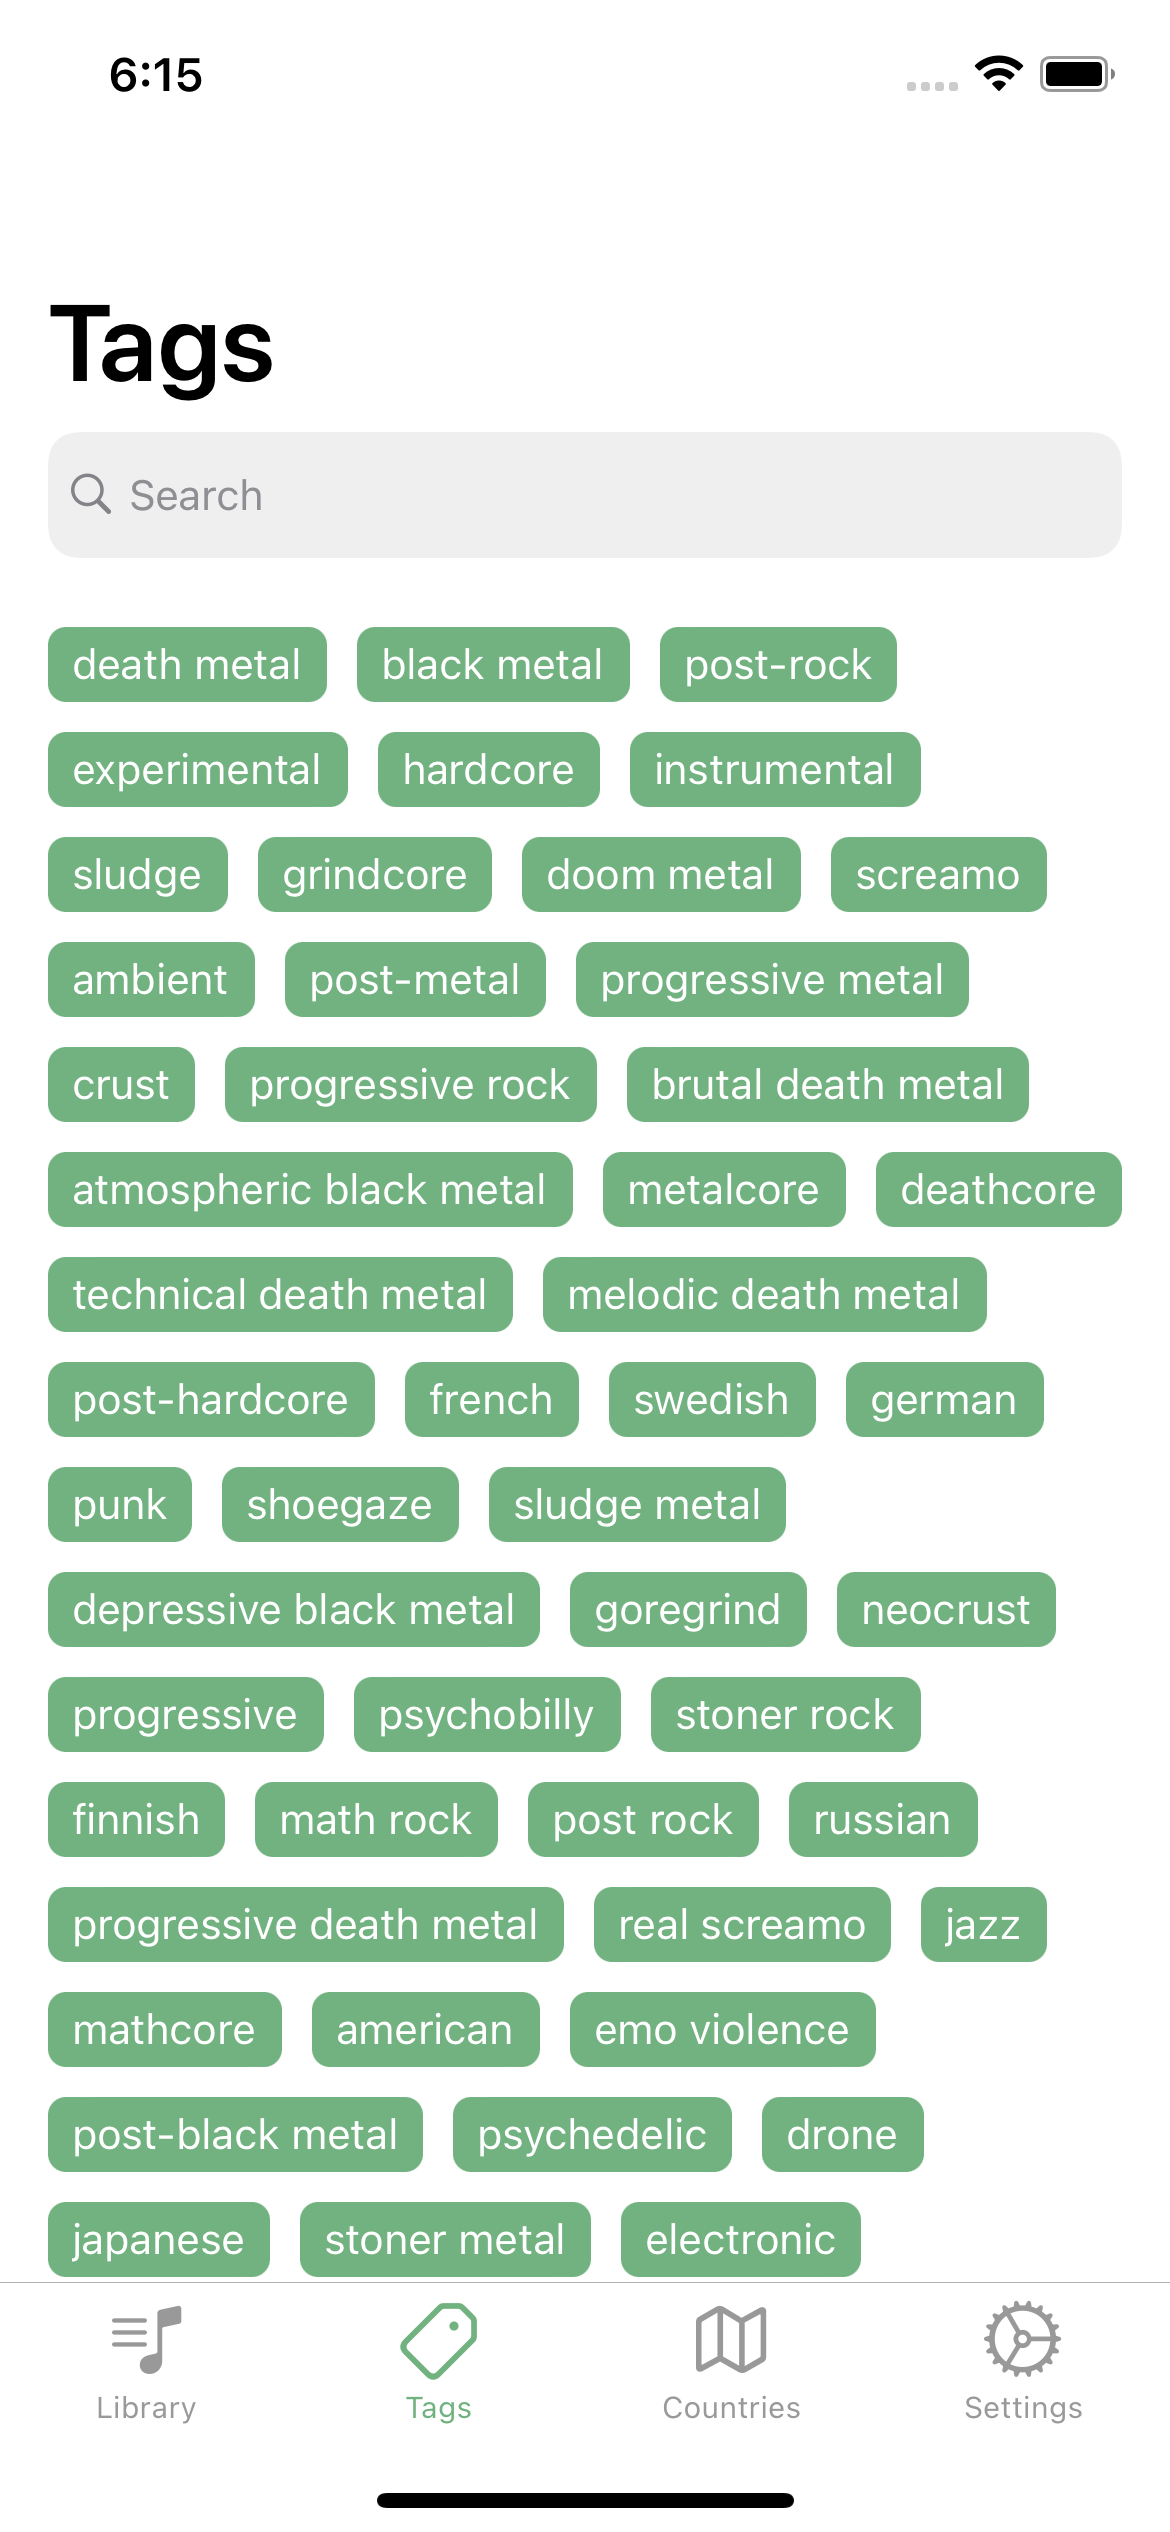
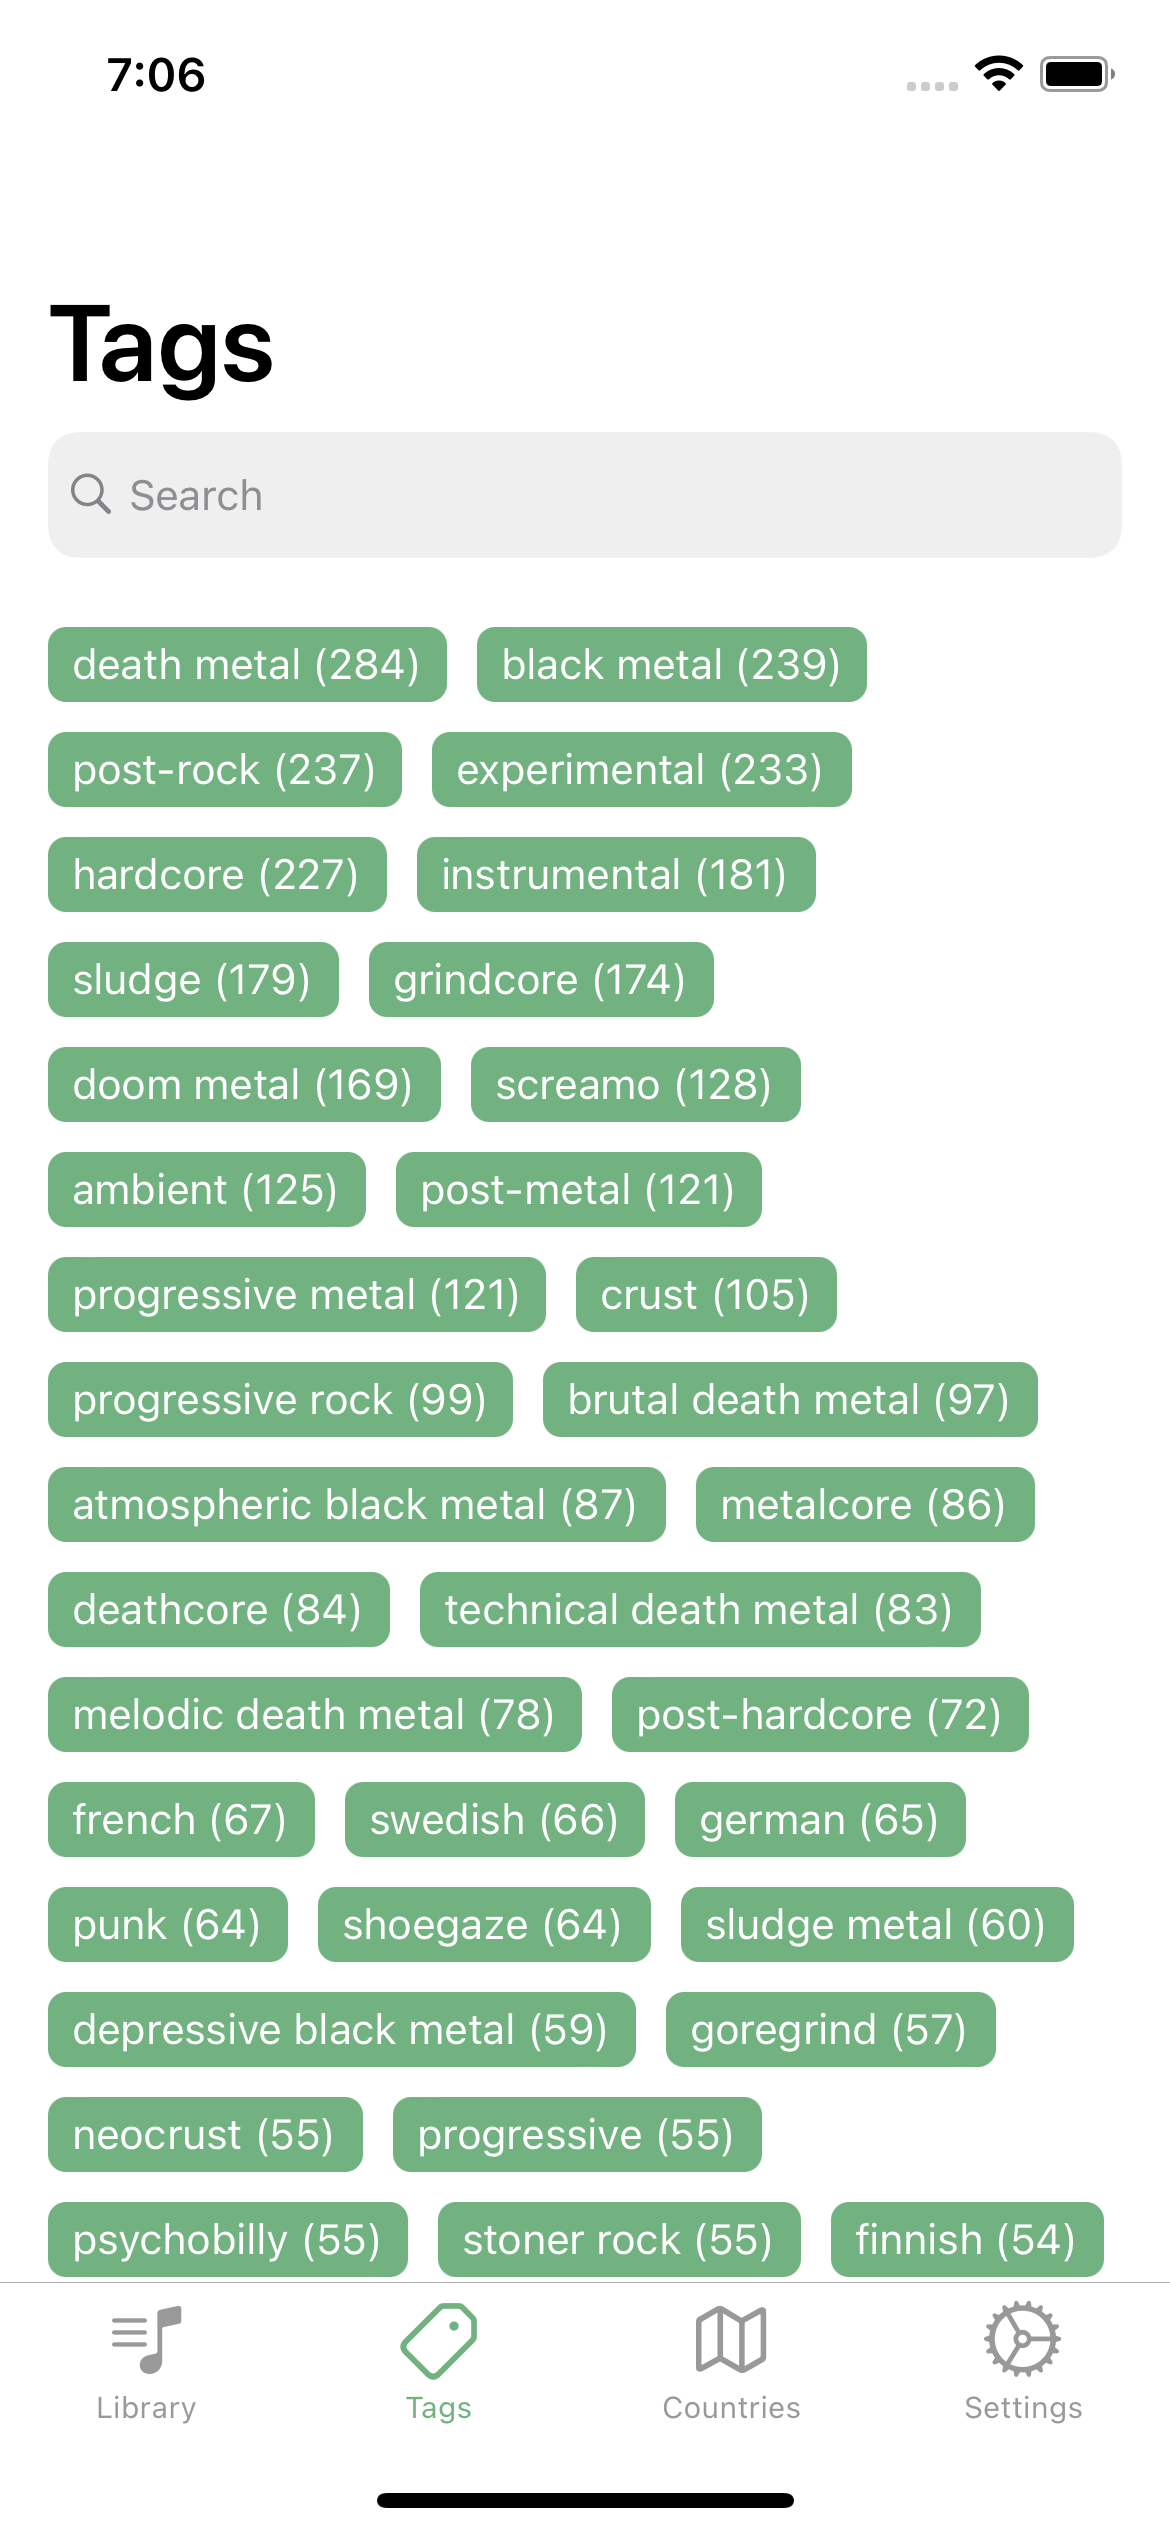
Show tag count on the Tags screen

Changed region(s): [[0.0615, 0.2496, 0.9538, 0.9048], [0.0923, 0.0, 0.1538, 0.0312], [0.0615, 0.5928, 0.0923, 0.624]]

diff --git a/Tests/Services/Modules/Tags/TagCellViewModelTests.swift b/Tests/Services/Modules/Tags/TagCellViewModelTests.swift
@@ -1,0 +1,35 @@
+//
+//  TagCellViewModelTests.swift
+//  MementoFMTests
+//
+//  Created by Dani on 09.04.2022.
+//  Copyright © 2022 icecoffin. All rights reserved.
+//
+
+import XCTest
+import Nimble
+@testable import MementoFM
+
+final class TagCellViewModelTests: XCTestCase {
+    func test_name_returnsTagName() {
+        let viewModel = TagCellViewModel(tag: makeTag(), showCount: false)
+
+        expect(viewModel.name) == "test tag"
+    }
+
+    func test_text_returnsTagNameWithCount() {
+        let viewModel = TagCellViewModel(tag: makeTag(), showCount: true)
+
+        expect(viewModel.text) == "test tag (15)"
+    }
+
+    func test_text_returnsTagNameWhenNotShowingCount() {
+        let viewModel = TagCellViewModel(tag: makeTag(), showCount: false)
+
+        expect(viewModel.text) == "test tag"
+    }
+
+    private func makeTag() -> Tag {
+        return Tag(name: "test tag", count: 15)
+    }
+}

diff --git a/Sources/Modules/Artist/View/Cells/TagCell.swift b/Sources/Modules/Artist/View/Cells/TagCell.swift
@@ -55,13 +55,13 @@ final class TagCell: UICollectionViewCell {
     // MARK: - Public methods
 
     func configure(with viewModel: TagCellViewModel) {
-        textLabel.text = viewModel.name
+        textLabel.text = viewModel.text
     }
 
     func sizeForViewModel(_ viewModel: TagCellViewModel) -> CGSize {
-        let name = viewModel.name
+        let text = viewModel.text
         let attributes: [NSAttributedString.Key: Any] = [.font: Constants.textLabelFont]
-        let size = name.boundingRect(with: CGSize(width: CGFloat.greatestFiniteMagnitude,
+        let size = text.boundingRect(with: CGSize(width: CGFloat.greatestFiniteMagnitude,
                                                   height: CGFloat.greatestFiniteMagnitude),
                                      options: [.usesLineFragmentOrigin, .usesFontLeading],
                                      attributes: attributes,

diff --git a/Sources/Modules/Artist/ViewModel/Cells/TagCellViewModel.swift b/Sources/Modules/Artist/ViewModel/Cells/TagCellViewModel.swift
@@ -12,6 +12,7 @@ final class TagCellViewModel {
     // MARK: - Private properties
 
     private let tag: Tag
+    private let showCount: Bool
 
     // MARK: - Public properties
 
@@ -19,9 +20,18 @@ final class TagCellViewModel {
         return tag.name
     }
 
+    var text: String {
+        if showCount {
+            return "\(name) (\(tag.count))"
+        } else {
+            return name
+        }
+    }
+
     // MARK: - Init
 
-    init(tag: Tag) {
+    init(tag: Tag, showCount: Bool) {
         self.tag = tag
+        self.showCount = showCount
     }
 }

diff --git a/Sources/Modules/Tags/ViewModel/TagsViewModel.swift b/Sources/Modules/Tags/ViewModel/TagsViewModel.swift
@@ -66,7 +66,7 @@ final class TagsViewModel {
         }.map {
             return Tag(name: $0.key, count: $0.value)
         }
-        allCellViewModels = result.map { TagCellViewModel(tag: $0) }
+        allCellViewModels = result.map { TagCellViewModel(tag: $0, showCount: true) }
         createFilteredCellViewModels(filter: searchText)
     }
 

diff --git a/Sources/Modules/Artist/ViewModel/Sections/ArtistTopTagsSectionViewModel.swift b/Sources/Modules/Artist/ViewModel/Sections/ArtistTopTagsSectionViewModel.swift
@@ -50,7 +50,7 @@ final class ArtistTopTagsSectionViewModel {
 
     required init(artist: Artist) {
         self.artist = artist
-        cellViewModels = artist.topTags.map({ TagCellViewModel(tag: $0) })
+        cellViewModels = artist.topTags.map({ TagCellViewModel(tag: $0, showCount: false) })
     }
 
     // MARK: - Public methods
